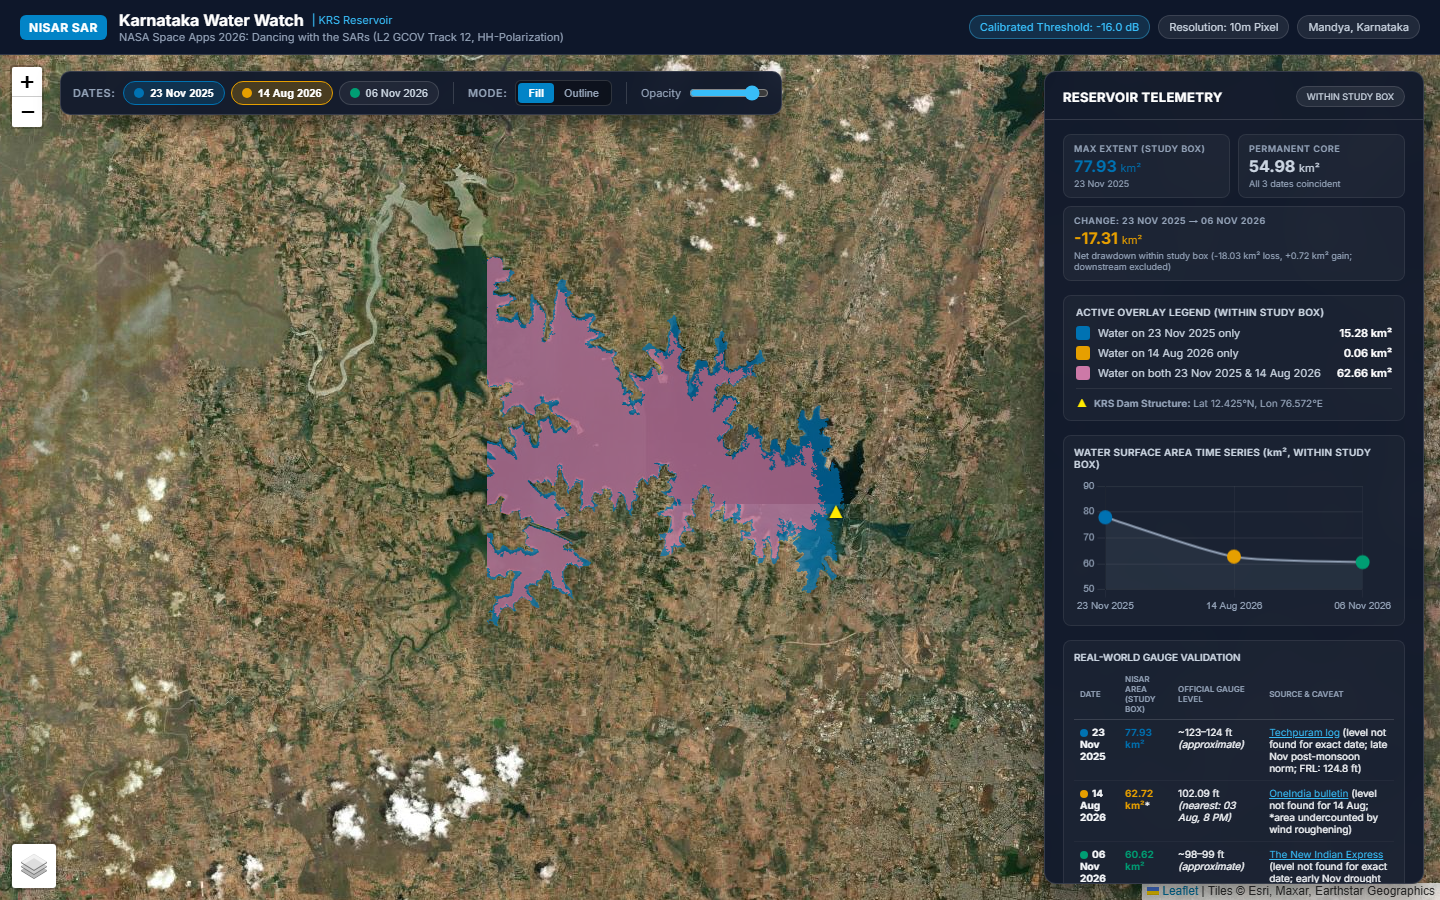
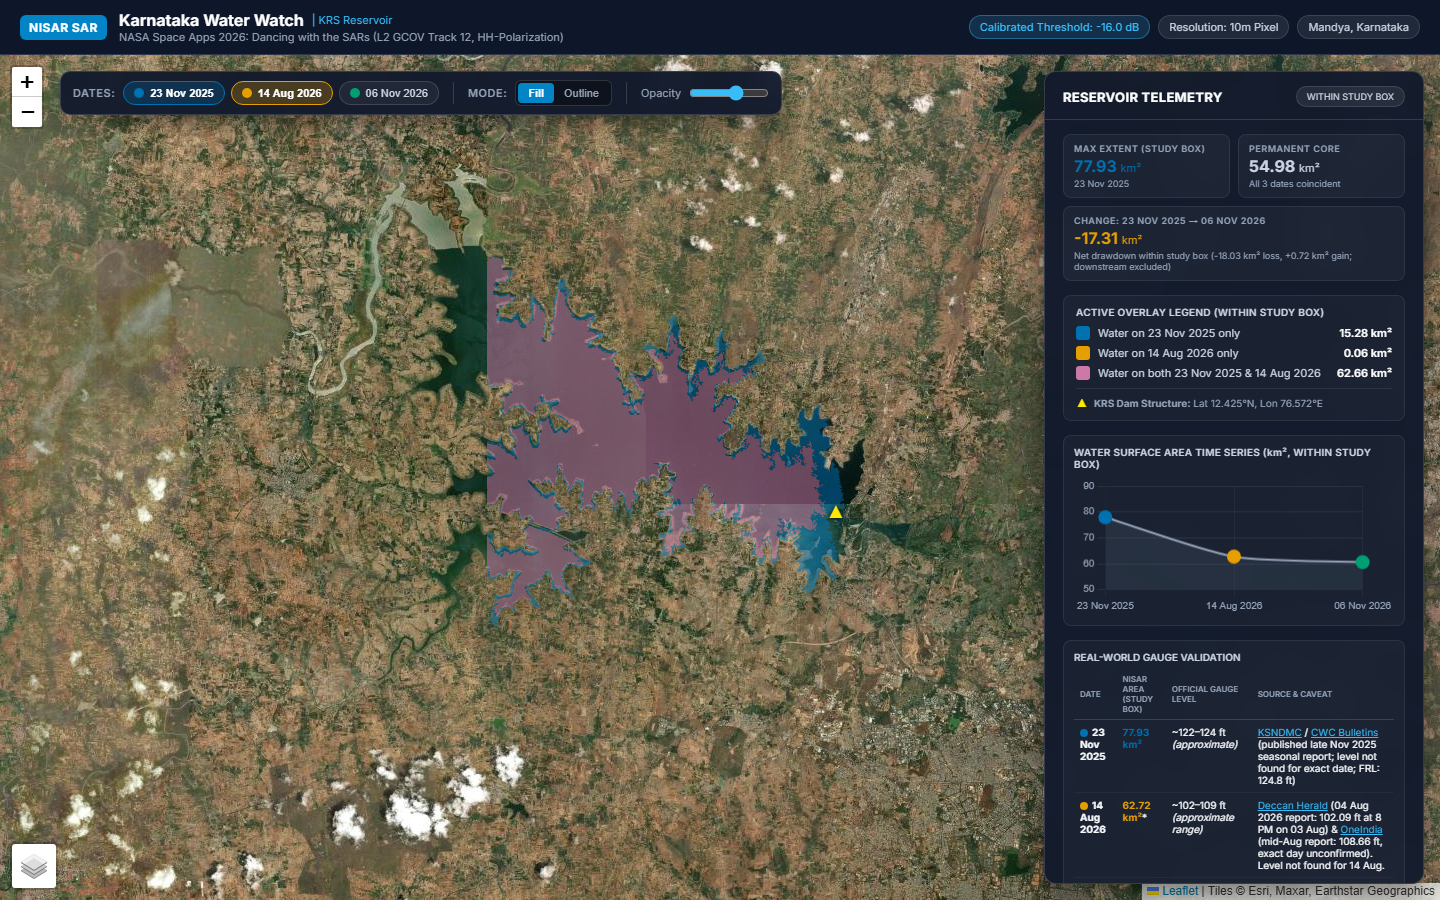
feat(ui): set default opacity to 0.6, make permanent core semi-transparent to preserve satellite texture, make blue classes distinct with electric cyan

Changed region(s): [[0.3125, 0.28, 0.5938, 0.6844], [0.75, 0.7467, 0.9688, 0.9956], [0.5, 0.0933, 0.5312, 0.1244]]

diff --git a/web/index.html b/web/index.html
@@ -598,7 +598,7 @@
 
             <div class="slider-row">
                 <label for="opacitySlider">Opacity</label>
-                <input type="range" id="opacitySlider" min="0" max="1" step="0.05" value="0.85"
+                <input type="range" id="opacitySlider" min="0" max="1" step="0.05" value="0.60"
                     aria-label="Layer Opacity" oninput="updateOpacity(this.value)">
             </div>
         </div>
@@ -771,7 +771,7 @@
                     "classes": [
                         { "label": "Water on 23 Nov 2025 only", "color": "#0072B2", "area_km2": 18.03 },
                         { "label": "Water on 06 Nov 2026 only", "color": "#009E73", "area_km2": 0.72 },
-                        { "label": "Water on both 23 Nov 2025 & 06 Nov 2026", "color": "#56B4E9", "area_km2": 59.90 }
+                        { "label": "Water on both 23 Nov 2025 & 06 Nov 2026", "color": "#00E5FF", "area_km2": 59.90 }
                     ]
                 },
                 "2026-08-14+2026-11-06": {
@@ -791,9 +791,9 @@
                         { "label": "Water on 14 Aug 2026 only", "color": "#E69F00", "area_km2": 0.06 },
                         { "label": "Water on 06 Nov 2026 only", "color": "#009E73", "area_km2": 0.71 },
                         { "label": "Water on both 23 Nov 2025 & 14 Aug 2026 only", "color": "#CC79A7", "area_km2": 7.68 },
-                        { "label": "Water on both 23 Nov 2025 & 06 Nov 2026 only", "color": "#56B4E9", "area_km2": 4.92 },
+                        { "label": "Water on both 23 Nov 2025 & 06 Nov 2026 only", "color": "#00E5FF", "area_km2": 4.92 },
                         { "label": "Water on both 14 Aug 2026 & 06 Nov 2026 only", "color": "#D55E00", "area_km2": 0.01 },
-                        { "label": "Water in all three dates", "color": "#2B2D42", "area_km2": 54.98 }
+                        { "label": "Water in all three dates (Permanent Core)", "color": "#2B2D42", "area_km2": 54.98 }
                     ]
                 }
             }
@@ -803,7 +803,7 @@
         const allAvailableDates = ["2025-11-23", "2026-08-14", "2026-11-06"];
         let activeDates = new Set(["2025-11-23", "2026-08-14", "2026-11-06"]); // default all 3
         let currentMode = "fill"; // "fill" or "outline"
-        let currentOpacity = 0.85;
+        let currentOpacity = 0.60;
 
         // Parse URL params for testing/deep-linking
         const urlParams = new URLSearchParams(window.location.search);
@@ -934,9 +934,13 @@
                     comboData.classes.forEach(cls => {
                         const row = document.createElement('div');
                         row.className = 'legend-item';
+                        const isCore = cls.color === '#2B2D42';
+                        const swatchStyle = isCore
+                            ? 'background: rgba(43, 45, 66, 0.45); border: 1.5px dashed rgba(255, 255, 255, 0.7);'
+                            : `background: ${cls.color};`;
                         row.innerHTML = `
               <div class="legend-left">
-                <div class="legend-color" style="background: ${cls.color};"></div>
+                <div class="legend-color" style="${swatchStyle}"></div>
                 <span>${cls.label}</span>
               </div>
               <div class="legend-area">${cls.area_km2.toFixed(2)} km²</div>

diff --git a/pipeline/generate_overlap_products.py b/pipeline/generate_overlap_products.py
@@ -91,13 +91,13 @@ LABELS = ["23 Nov 2025", "14 Aug 2026", "06 Nov 2026"]
 
 # Exact Palette (Hex -> RGBA with opacity 215/255 for fill, 255 for outline)
 COLORS = {
-    "date1": {"hex": "#0072B2", "rgb": [0, 114, 178], "alpha": 215},    # Blue
+    "date1": {"hex": "#0072B2", "rgb": [0, 114, 178], "alpha": 215},    # Deep Blue
     "date2": {"hex": "#E69F00", "rgb": [230, 159, 0], "alpha": 215},    # Orange
     "date3": {"hex": "#009E73", "rgb": [0, 158, 115], "alpha": 215},    # Green
     "both_1_2": {"hex": "#CC79A7", "rgb": [204, 121, 167], "alpha": 220}, # Reddish Purple
-    "both_1_3": {"hex": "#56B4E9", "rgb": [86, 180, 233], "alpha": 220},  # Sky Blue
+    "both_1_3": {"hex": "#00E5FF", "rgb": [0, 229, 255], "alpha": 220},  # High-Contrast Electric Cyan (Distinct from #0072B2)
     "both_2_3": {"hex": "#D55E00", "rgb": [213, 94, 0], "alpha": 220},   # Vermilion
-    "all_three": {"hex": "#2B2D42", "rgb": [43, 45, 66], "alpha": 235}    # Dark Neutral Slate
+    "all_three": {"hex": "#2B2D42", "rgb": [43, 45, 66], "alpha": 75}     # Semi-transparent Slate (Preserves satellite water texture)
 }
 
 # 1. Generate full-resolution water masks
